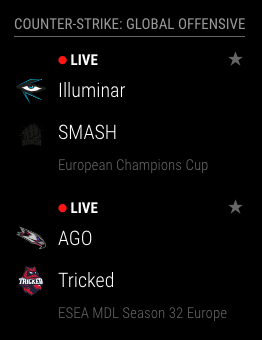
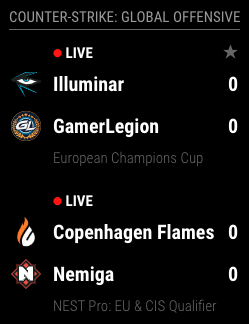
chore: live score #12

diff --git a/node_helper.js b/node_helper.js
@@ -1,4 +1,5 @@
 const NodeHelper = require('node_helper');
+const _ = require('lodash');
 const { HLTV } = require('hltv');
 
 module.exports = NodeHelper.create({
@@ -8,6 +9,9 @@ module.exports = NodeHelper.create({
 
     // Matches
     matches: [],
+
+    // Monitored scorebots.
+    scorebots: [],
 
     /**
      * Socket notification is received from the module.
@@ -37,7 +41,40 @@ module.exports = NodeHelper.create({
     async getMatchesAndNotify() {
         this.matches = await HLTV.getMatches();
         this.applyfilters();
+        this.connectToScorebots();
         this.sendSocketNotification('MATCHES_RECEIVED', this.matches);
+    },
+
+    /**
+     * Get the current score for each live match.
+     * 
+     * @return {void}
+     */
+     connectToScorebots() {
+        this.matches.filter(match => {
+            return match.live;
+        }).forEach(match => {
+            const id = match.id;
+
+            if(! _.includes(this.scorebots, id)) {
+                HLTV.connectToScorebot({
+                    id,
+                    onScoreboardUpdate: (scoreboard) => {
+                        this.sendSocketNotification('MATCH_UPDATE', {
+                            id,
+                            scoreboard,
+                        });
+                    },
+                    onConnect: () => {
+                        this.scorebots.push(id);
+                    },
+                    onDisconnect: () => {
+                        this.scorebots = _.remove(this.scorebots, _id => id === _id);
+                        this.sendSocketNotification('MATCH_ENDED', id);
+                    }
+                });
+            }
+        });
     },
 
     /**

diff --git a/MMM-HLTV.js b/MMM-HLTV.js
@@ -3,6 +3,9 @@ Module.register('MMM-HLTV', {
     // All matches.
     matches: [],
 
+    // Scorebots
+    scorebots: {},
+
     // Module config defaults.
     defaults: {
         'updateInterval': 60 * 1000,
@@ -75,7 +78,13 @@ Module.register('MMM-HLTV', {
         return {
             config: this.config,
             matches: this.matches,
+            scorebots: this.scorebots,
             moment,
+
+            is: (side, team, scoreboard) => {
+                const key = side === 'T' ? 'tTeamId' : 'ctTeamId';
+                return typeof scoreboard !== 'undefined' && team.id === scoreboard[key];
+            }
         };
     },
 
@@ -105,6 +114,12 @@ Module.register('MMM-HLTV', {
             case 'MATCHES_RECEIVED':
                 this.setMatches(payload);
                 break;
+            case 'MATCH_ENDED':
+                this.removeFromScoreboards(payload);
+                break;
+            case 'MATCH_UPDATE':
+                this.updateScoreboard(payload);
+                break;
         };
     },
 
@@ -127,6 +142,24 @@ Module.register('MMM-HLTV', {
      */
     setMatches(matches) {
         this.matches = matches;
-        this.updateDom();
+        this.updateDom(500);
+    },
+
+    /**
+     * 
+     * @param {object} update scoreboard update.
+     */
+     updateScoreboard(update) {
+        const exists = update.id in this.scorebots;
+        this.scorebots[update.id] = update.scoreboard;
+        if(! exists) this.updateDom(500);
+    },
+
+    /**
+     * 
+     * @param {int} id match id to remove from object.
+     */
+    removeFromScoreboards(id) {
+        delete this.scorebots[id];
     },
 });

diff --git a/MMM-HLTV.css b/MMM-HLTV.css
@@ -24,3 +24,7 @@
     width: 30px;
     margin-top: 5px;
 }
+
+.score {
+    text-align: right;
+}
